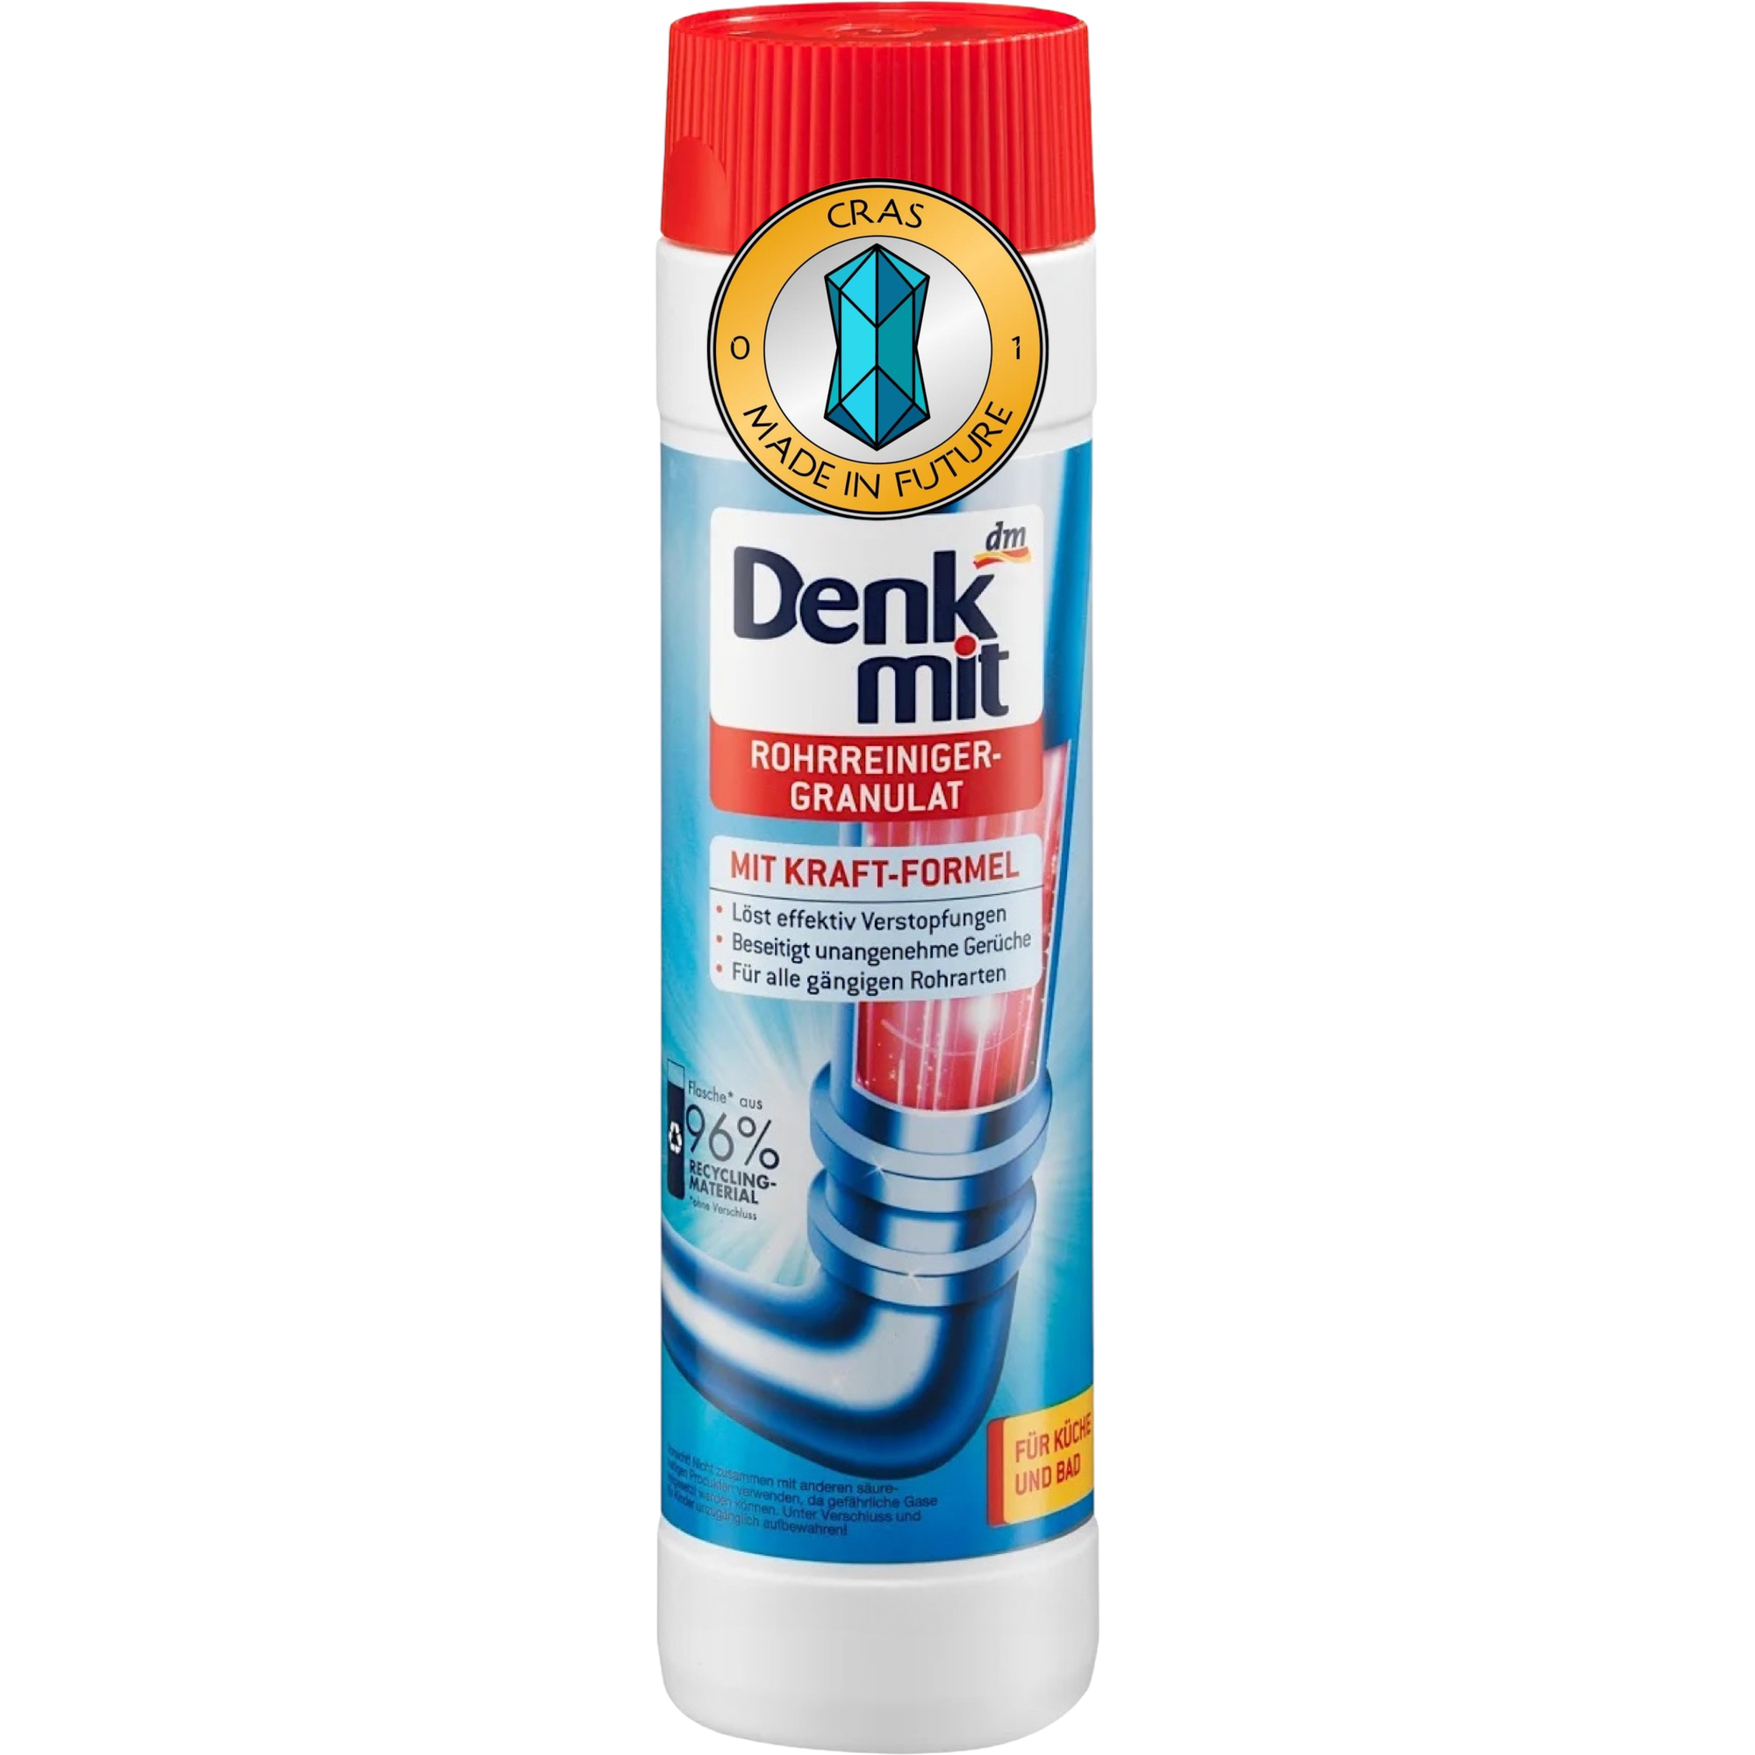
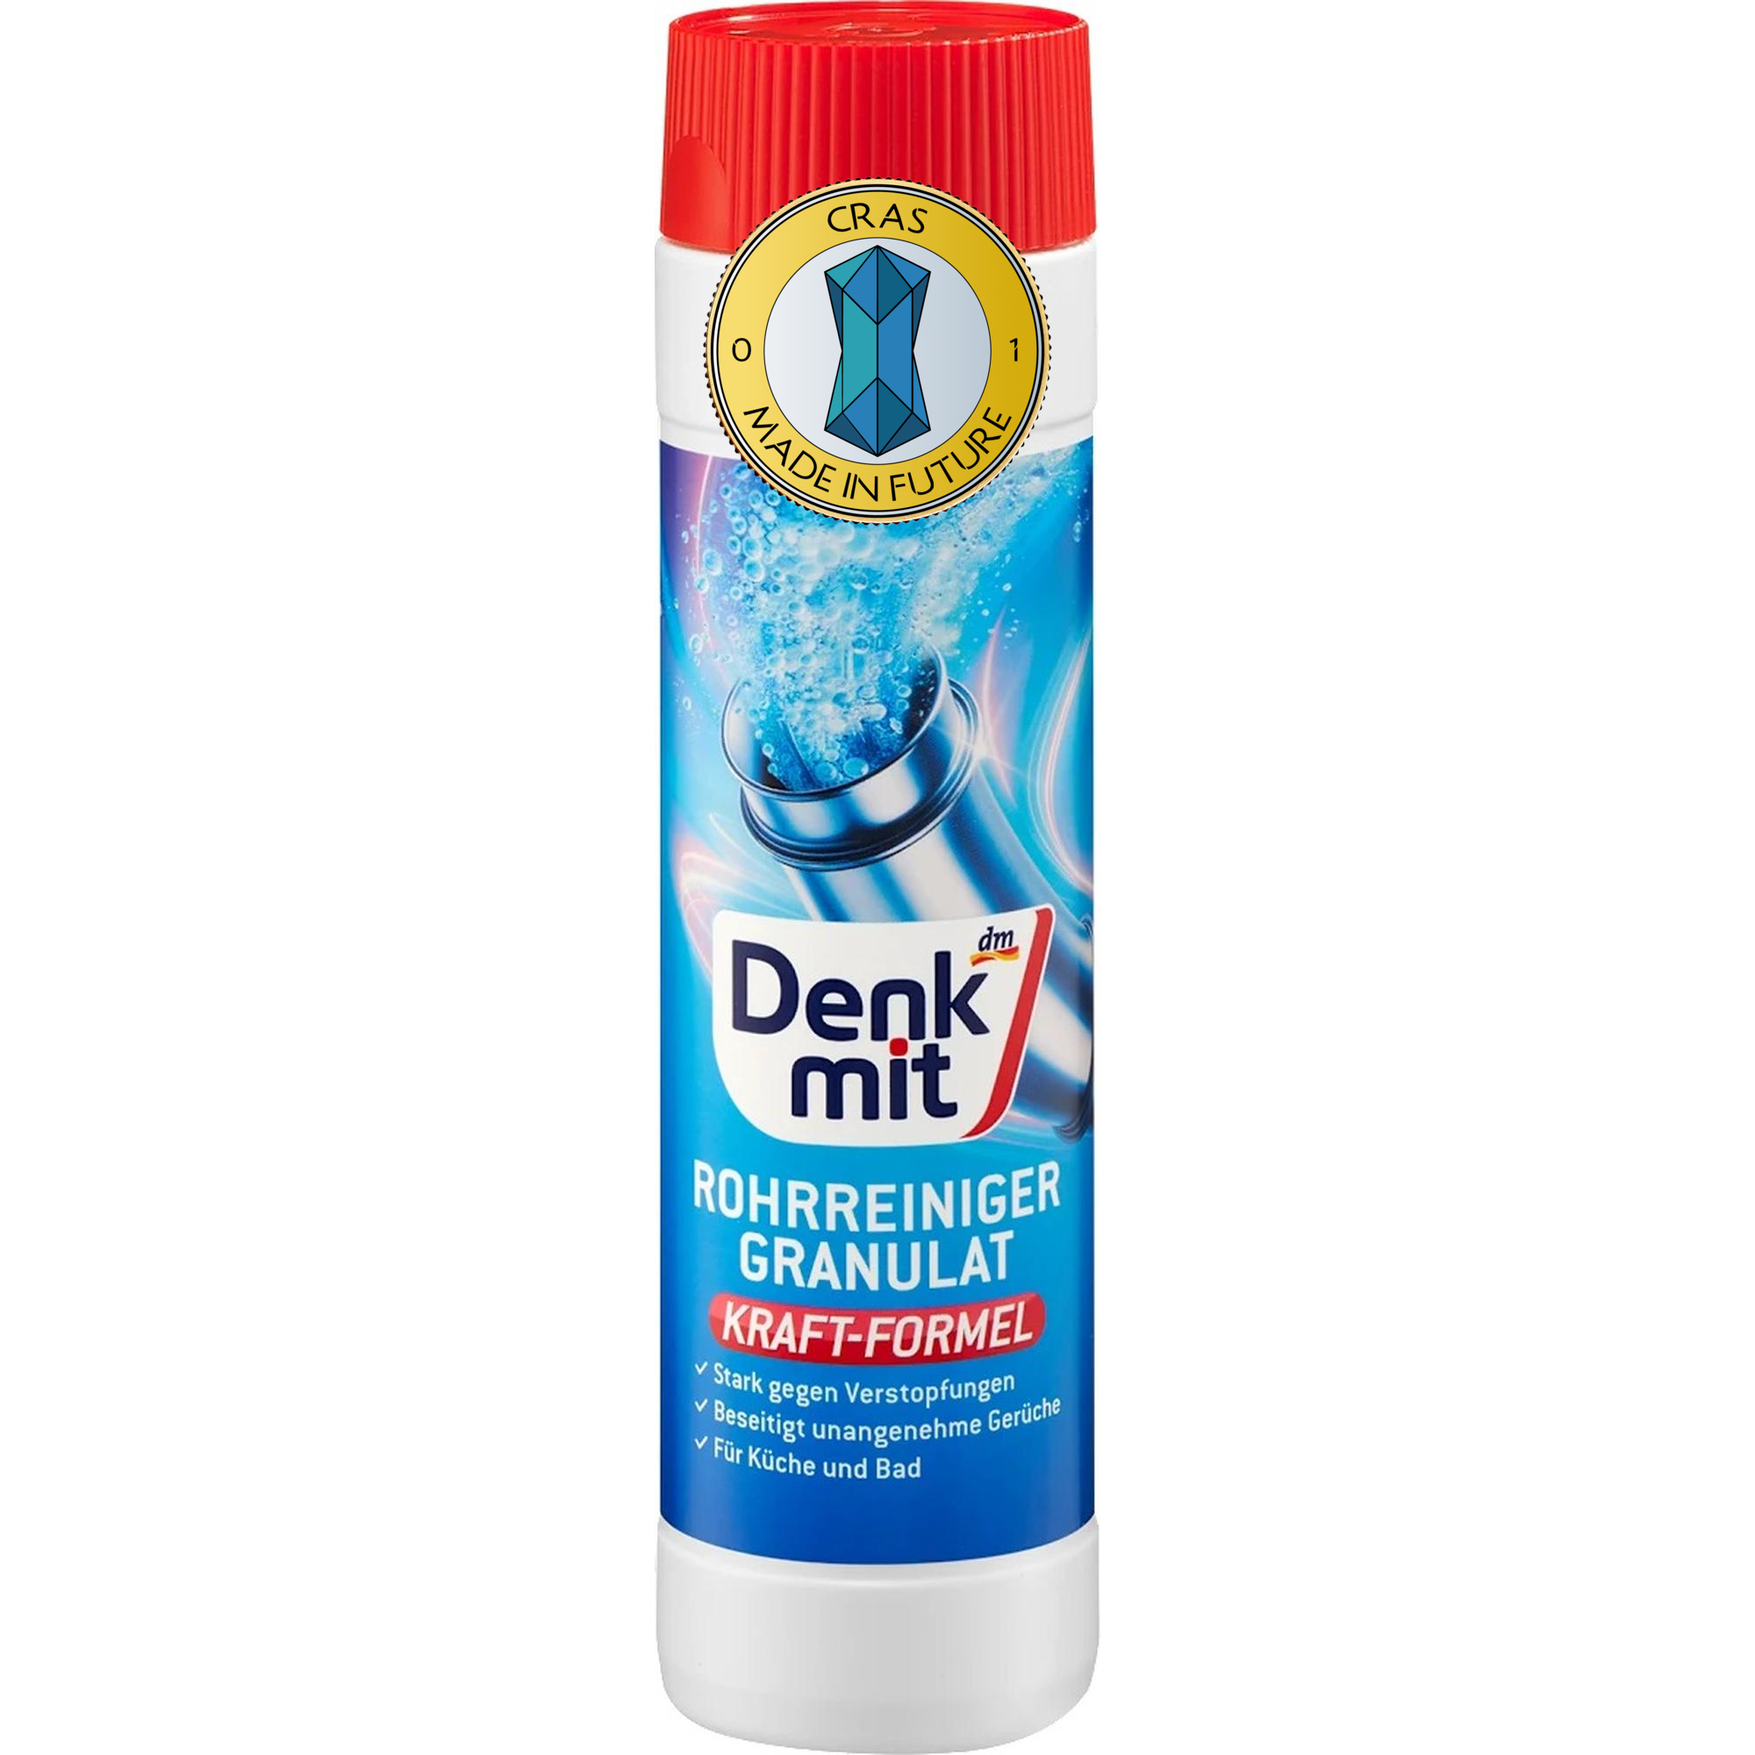
New Granuls style

diff --git a/js/hygiene/array-hair-conditioners.js b/js/hygiene/array-hair-conditioners.js
@@ -26,33 +26,33 @@ export const shopLotsHairConditioners = [
         description04: "<strong>Кондиціонер для фарбованого, тонованого волосся. Аромат: півонія. Без силікону. Містить вітамін B3, провітамін B5.></strong>",
         description05: "Оберіть професійний догляд з &#171Balea - Spülung Farbglanz Mit Pfingstrosen-Duft&#187, який підтримає Вашу красу щодня!"
     },
-    {
-        type: "retail",
-        mainCategory: "hygiene-products",
-        subcategory: "hair-care",
-        url: "./images/shop/gigiena/hair_care/hair_conditioners/balea_spulung_intensiv_pflege_300.jpg",
-        alt: "balea_spulung_intensiv_pflege_300",
-        url1: "./images/shop/gigiena/hair_care/hair_conditioners/balea_spulung_intensiv_pflege_300-01.jpg",
-        alt1: "balea_spulung_intensiv_pflege_300-01",
-        url2: "./images/shop/gigiena/hair_care/hair_conditioners/balea_spulung_intensiv_pflege_300-02.jpg",
-        alt2: "balea_spulung_intensiv_pflege_300-02",
-        marker: "HACO056",
-        brand: "Balea",
-        search: "spulung mandelol балеа балея кондиционер для волос для поврежденного волоса поврежденных поврежденные волосы крашеный и тонированый волос ваниль миндальное масло с ванилью и миндальным маслом",
-        nameUKR: "Кондиціонер для пошкодженого волосся (ваніль та мигдалова олія)",
-        nameEN: "Spülung Intensiv Pflege Mit Vanille-Duft Und Mandelöl",
-        companyName: "dm-drogerie markt GmbH + Co.",
-        countryName: "Німеччина",
-        volumeName: "Об'єм",
-        volume: "300 мл.",
-        priceGRN: 67,
-        quantityOnStorage: 6,
-        description01: "Відновіть своє пошкоджене волосся за допомогою кондиціонера &#171Balea - Spülung Intensiv Pflege Mit Vanille-Duft Und Mandelöl&#187 з ароматом ванілі та мигдаловою олією.",
-        description02: "Компоненти кондиціонера глибоко живлять волосся, повертаючи йому м'якість і природний блиск.",
-        description03: "Завдяки мигдаловій олії у &#171Balea - Spülung Intensiv Pflege Mit Vanille-Duft Und Mandelöl&#187, волосся стає сильнішим, більш зволоженим та захищеним від подальших пошкоджень.",
-        description04: "<strong>Кондиціонер для пошкодженного волосся. Аромат: ваніль, мигдалова олія. Без силікону. Містить вітамін B3, провітамін B5.></strong>",
-        description05: "Подаруйте своєму волоссю турботу, якої воно заслуговує, і відчуйте різницю вже після першого використання &#171Balea - Spülung Intensiv Pflege Mit Vanille-Duft Und Mandelöl&#187!"
-    },
+    // {
+    //     type: "retail",
+    //     mainCategory: "hygiene-products",
+    //     subcategory: "hair-care",
+    //     url: "./images/shop/gigiena/hair_care/hair_conditioners/balea_spulung_intensiv_pflege_300.jpg",
+    //     alt: "balea_spulung_intensiv_pflege_300",
+    //     url1: "./images/shop/gigiena/hair_care/hair_conditioners/balea_spulung_intensiv_pflege_300-01.jpg",
+    //     alt1: "balea_spulung_intensiv_pflege_300-01",
+    //     url2: "./images/shop/gigiena/hair_care/hair_conditioners/balea_spulung_intensiv_pflege_300-02.jpg",
+    //     alt2: "balea_spulung_intensiv_pflege_300-02",
+    //     marker: "HACO056",
+    //     brand: "Balea",
+    //     search: "spulung mandelol балеа балея кондиционер для волос для поврежденного волоса поврежденных поврежденные волосы крашеный и тонированый волос ваниль миндальное масло с ванилью и миндальным маслом",
+    //     nameUKR: "Кондиціонер для пошкодженого волосся (ваніль та мигдалова олія)",
+    //     nameEN: "Spülung Intensiv Pflege Mit Vanille-Duft Und Mandelöl",
+    //     companyName: "dm-drogerie markt GmbH + Co.",
+    //     countryName: "Німеччина",
+    //     volumeName: "Об'єм",
+    //     volume: "300 мл.",
+    //     priceGRN: 67,
+    //     quantityOnStorage: 6,
+    //     description01: "Відновіть своє пошкоджене волосся за допомогою кондиціонера &#171Balea - Spülung Intensiv Pflege Mit Vanille-Duft Und Mandelöl&#187 з ароматом ванілі та мигдаловою олією.",
+    //     description02: "Компоненти кондиціонера глибоко живлять волосся, повертаючи йому м'якість і природний блиск.",
+    //     description03: "Завдяки мигдаловій олії у &#171Balea - Spülung Intensiv Pflege Mit Vanille-Duft Und Mandelöl&#187, волосся стає сильнішим, більш зволоженим та захищеним від подальших пошкоджень.",
+    //     description04: "<strong>Кондиціонер для пошкодженного волосся. Аромат: ваніль, мигдалова олія. Без силікону. Містить вітамін B3, провітамін B5.></strong>",
+    //     description05: "Подаруйте своєму волоссю турботу, якої воно заслуговує, і відчуйте різницю вже після першого використання &#171Balea - Spülung Intensiv Pflege Mit Vanille-Duft Und Mandelöl&#187!"
+    // },
     {
         type: "retail",
         mainCategory: "hygiene-products",

diff --git a/js/household_chemicals/array-power-caps.js b/js/household_chemicals/array-power-caps.js
@@ -21,7 +21,7 @@ export const shopLotsPowerCaps = [
         weightName: "Вага",
         weight: "20.6 гр.",
         priceGRN: 13,
-        quantityOnStorage: 198,
+        quantityOnStorage: 66,
         description01: "&#171Ariel - All in 1 PODS Color&#187 - потужність, яка перетворить Ваше прання на справжнє мистецтво. Завдяки інноваційній технології, капсули забезпечують не тільки бездоганне прання, але і захист кольорів вашого одягу.",
         description02: "Речовина проникає глибоко у тканини, видаляючи навіть найскладніші забруднення та зберігаючи насиченість кольорів.",
         description03: "Бажаєте мати завжди яскравий і непорушний одяг? Це можливо з пральними капсулами &#171Ariel - All in 1 PODS Color&#187. Відчуйте різницю і дозвольте своїй одежі блищати яскравіше, ніж будь-коли.",
@@ -50,7 +50,7 @@ export const shopLotsPowerCaps = [
         weightName: "Вага",
         weight: "20.6 гр.",
         priceGRN: 13,
-        quantityOnStorage: 210,
+        quantityOnStorage: 68,
         description01: "Капсули для прання &#171Ariel - All in 1 PODS Mountain Spring&#187 дарують вашому одягу неймовірну свіжість гірської весни.",
         description02: "Їх потужна формула ефективно видаляє бруд та плями, забезпечуючи бездоганну чистоту після кожного прання.",
         description03: "Крім того, капсули &#171Ariel - All in 1 PODS Mountain Spring&#187 дбайливо зберігають структуру тканин і кольори, роблячи речі м'якими та приємними на дотик.",
@@ -58,7 +58,7 @@ export const shopLotsPowerCaps = [
         description05: "Виберіть капсули &#171Ariel - All in 1 PODS Mountain Spring&#187, щоб Ваш одяг залишався свіжим та чистим тривалий час!"
     },
     {
-        type: "wholesale",
+        type: "only-wholesale оптом",
         mainCategory: "household-chemicals",
         subcategory: "detergents",
         url: "./images/shop/household_chemicals/laundry_detergents/power_caps/ariel_allin1_color_63.jpg",
@@ -78,8 +78,8 @@ export const shopLotsPowerCaps = [
         countryName: "Італія",
         quantityName: "Кількість",
         quantity: "63 шт.",
-        priceGRN: 825,
-        priceGRNOpt: 735,
+        priceGRN: "--",
+        priceGRNOpt: 825,
         description01: "&#171Ariel - All in 1 PODS Color&#187 - потужність, яка перетворить Ваше прання на справжнє мистецтво. Завдяки інноваційній технології, капсули забезпечують не тільки бездоганне прання, але і захист кольорів вашого одягу.",
         description02: "Речовина проникає глибоко у тканини, видаляючи навіть найскладніші забруднення та зберігаючи насиченість кольорів.",
         description03: "Бажаєте мати завжди яскравий і непорушний одяг? Це можливо з пральними капсулами &#171Ariel - All in 1 PODS Color&#187. Відчуйте різницю і дозвольте своїй одежі блищати яскравіше, ніж будь-коли.",

diff --git a/js/household_chemicals/array-means-cleaning-kitchen-bathroom.js b/js/household_chemicals/array-means-cleaning-kitchen-bathroom.js
@@ -527,7 +527,7 @@ export const shopLotsMeansCleaningKitchenBathroom = [
         description05: "Додайте &#171Astonish - Cream Lemon&#187 до свого арсеналу для ефективного прибирання та приємного аромату!"
     },
     {
-        type: "wholesale оптом",
+        type: "retail",
         mainCategory: "household-chemicals",
         subcategory: "cleaning-care-products",
         url: "./images/shop/household_chemicals/means_for_cleaning/kitchen_bathroom/astonish_cream_cleaner_with_bleach_500.jpg",
@@ -546,7 +546,7 @@ export const shopLotsMeansCleaningKitchenBathroom = [
         volumeName: "Об'єм",
         volume: "500 мл.",
         priceGRN: 149,
-        priceGRNOpt: 127,
+        quantityOnStorage: 1,
         description01: "Чистота без зайвих зусиль – це можливо, якщо обрати засіб &#171Astonish - Cream Cleaner Whith Bleach&#187, який працює за Вас.",
         description02: "Крем для чищення ефективно видаляє навіть найстійкіші забруднення, включаючи мильний наліт, водяні сліди та жир.",
         description03: "Формула &#171Astonish - Cream Cleaner Whith Bleach&#187 з відбілювачем глибоко очищає поверхні, повертаючи їм сяйво та бездоганну білизну без подряпин.",
